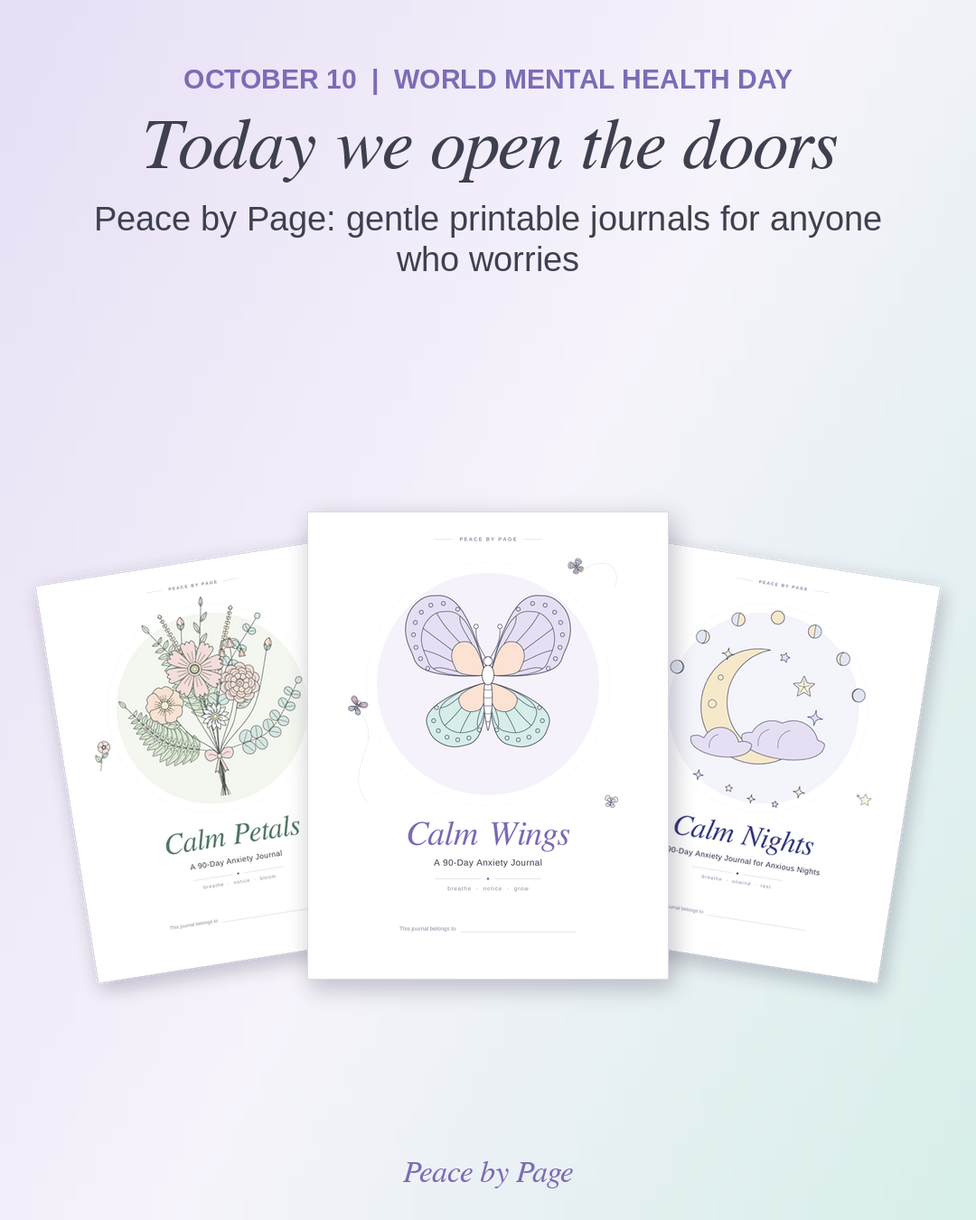
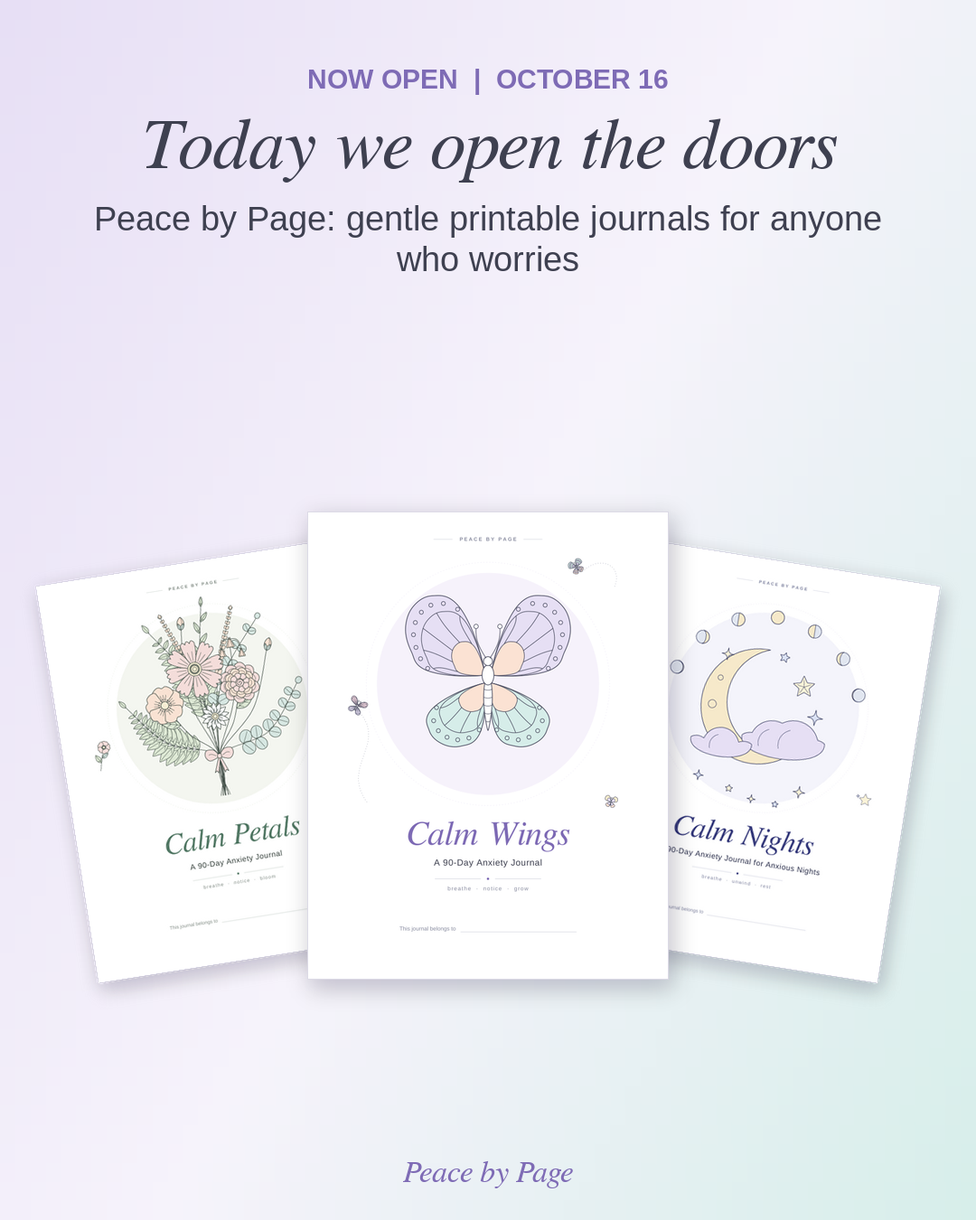
Peace by Page: launch moved to Fri 10/16, FB launch post + reels scheduled, Pinterest + IG/TikTok lists
Claude-Session: https://claude.ai/code/session_01TQWUAJSyeczoh1eaRjRwmB

Changed region(s): [[0.1833, 0.0311, 0.7944, 0.0933]]

diff --git a/ventures/calm-pages/launch/make_launch_content.py b/ventures/calm-pages/launch/make_launch_content.py
@@ -1,4 +1,4 @@
-"""Peace by Page launch content (10/10 launch, checklist rows 41, 44, 47).
+"""Peace by Page launch content (10/16 launch, checklist rows 41, 44, 47).
 
 Builds, into ../launch/content/:
   pins/<edition>-<n>-<kind>.png      15 Pinterest pins, 1000 x 1500 (5 per edition)
@@ -194,7 +194,7 @@ def carousel():
     W, H = 1080, 1350
     J = {k: PDF[k]["journal"] for k in PDF}
     # 1 cover
-    im, d, y = slide("wings", "October 10  |  World Mental Health Day", "Today we open the doors",
+    im, d, y = slide("wings", "Now open  |  October 16", "Today we open the doors",
                      "Peace by Page: gentle printable journals for anyone who worries")
     fan_covers(im, W / 2, (y + H - 90) / 2 + 40, 400)
     save(im, "carousel", "launch-1.png")

diff --git a/ventures/calm-pages/launch/launch-schedule.md b/ventures/calm-pages/launch/launch-schedule.md
@@ -1,0 +1,205 @@
+# Peace by Page: launch schedule (launch Fri 10/16)
+
+Set up 10/9 after Tim approved all launch content. Times are Eastern. No launch sale in anything scheduled (LAUNCH25 variants are in `launch-content.md` if Tim says yes by Tue 10/13).
+Launch date changed from Sat 10/10 (World Mental Health Day) to Fri 10/16, so the "World Mental Health Day" lines were dropped and carousel slide 1 now reads "Now open | October 16". Nothing else in the approved copy changed except "link in bio" becoming the product link on Facebook.
+
+## 1. Scheduled in Blotato (Peace by Page Facebook Page)
+
+| When (ET) | Post | Link in text | Blotato schedule id |
+|---|---|---|---|
+| Fri 10/16 8:30 AM | Launch post + 7-slide carousel | https://payhip.com/PeaceByPage | 5364160 |
+| Fri 10/16 4:45 PM | Reel V1, Calm Wings flip-through | https://payhip.com/b/ySCnJ | 5364170 |
+| Mon 10/19 6:30 PM | Reel V2, Calm Nights evening pages | https://payhip.com/b/NzAkL | 5364173 |
+| Wed 10/21 6:30 PM | Reel V3, Calm Petals coloring reveal | https://payhip.com/b/8QkY4 | 5364176 |
+| Fri 10/23 6:30 PM | Reel V4, three editions | https://payhip.com/PeaceByPage | 5364179 |
+| Mon 10/26 6:30 PM | Reel V5, free sampler | https://payhip.com/b/yrk3j | 5364182 |
+
+To change or cancel one: Blotato > Calendar, or ask Jarvis (blotato_update_schedule / blotato_delete_schedule with the id).
+
+## 2. Pinterest: NOT in Blotato (blocked), pin by hand or with Pinterest's own scheduler
+
+Blotato refused the Pinterest post on 10/9: "Your Pinterest still looks pretty new. You MUST warm it up for 2 weeks before connecting to 3rd party posting tools... Once you get 100+ views per month, then reconnect your Pinterest account with Blotato." So Pinterest goes by hand for now, which also counts as the warm-up.
+Easiest: on a computer, pinterest.com > Create > Create Pin > upload the image, paste title, description, alt text (under "More options"), link and board > "Publish at a later date" > pick the date. One sitting can queue several. Or post each day from the phone app.
+Image links below are public copies (tap to open, then save). Originals: `launch/content/pins/` and `launch/content/carousel/launch-1.png`.
+Board ids (for Blotato later): Anxiety Journal Prompts 1140184899352420443, Calming Coloring Pages 1140184899352420445, Gifts for Someone Who Worries 1140184899352420448, Self-Care Printables 1140184899352420446
+
+### Launch pin: Fri 10/16, 8:30 AM
+- **Image:** https://database.blotato.io/storage/v1/object/public/public_media/246c6cef-6cbe-4b5b-81a9-7bb84481df9c/b85ef37d-803c-4b7d-8f06-a50dc34949d3.png (carousel slide 1)
+- **Board:** Self-Care Printables
+- **Link:** https://payhip.com/PeaceByPage
+- **Title:** Printable Anxiety Journals from Peace by Page, Now Open
+- **Description:** Peace by Page is now open: gentle 90-day printable journals in three editions (butterflies, botanicals, moon and stars), five minutes a day, plus a free 7-day sampler. Supports, not replaces, professional care. US crisis line: call or text 988.
+- **Alt text:** Three printable journal covers from Peace by Page: Calm Petals, Calm Wings and Calm Nights
+
+### Daily pins, one a day around 7:45 PM (journal, bundle and sampler pins first)
+
+#### 1. Fri 10/16: W1 (wings-1-inside.png)
+- **Image:** https://database.blotato.io/storage/v1/object/public/public_media/246c6cef-6cbe-4b5b-81a9-7bb84481df9c/2d258982-4260-4354-824b-02a181b078a2.png
+- **Board:** Anxiety Journal Prompts
+- **Link:** https://payhip.com/b/ySCnJ
+- **Title:** Printable Anxiety Journal: a Peek Inside the 90-Day Calm Wings Journal
+- **Description:** A gentle 90-day printable journal with a soft butterfly theme. One daily page takes about five minutes: mood check, three good things, one worry and a more balanced thought, one small step. Includes an SOS toolkit (box breathing, grounding, worry tree) and coloring breaks. Instant download, US Letter and A4. Supports, not replaces, professional care. US crisis line: call or text 988.
+- **Alt text:** Three printable pages from the Calm Wings anxiety journal: a daily page, box breathing and a butterfly coloring page
+
+#### 2. Sat 10/17: N4 (nights-4-gift.png)
+- **Image:** https://database.blotato.io/storage/v1/object/public/public_media/246c6cef-6cbe-4b5b-81a9-7bb84481df9c/6b50298e-f27b-4ef6-9388-07aa135675fc.png
+- **Board:** Gifts for Someone Who Worries
+- **Link:** https://payhip.com/b/7ZIgE
+- **Title:** Bedtime Self-Care Gift: Calm Nights Printable Journal Bundle
+- **Description:** For the night owl who worries: the Calm Nights 90-day journal, 18 moon and stars coloring pages and a 12-month mood star tracker. Print, bind and wrap it with colored pencils, or send the file. Instant download, US Letter and A4. Supports, not replaces, professional care.
+- **Alt text:** Calm Nights journal, celestial coloring pack and mood star tracker printable bundle shown as a gift idea
+
+#### 3. Sun 10/18: P5 (petals-5-sampler.png)
+- **Image:** https://database.blotato.io/storage/v1/object/public/public_media/246c6cef-6cbe-4b5b-81a9-7bb84481df9c/43f366ac-3751-48e3-8381-41ff02ee1387.png
+- **Board:** Self-Care Printables
+- **Link:** https://payhip.com/b/yrk3j
+- **Title:** Try a Week of Guided Journaling Free: Printable 7-Day Sampler
+- **Description:** Not sure a journal is for you? Start with seven free daily pages, a pocket SOS card and a coloring page. About five minutes a day, undated, print at home. Free PDF in Letter and A4. Supports, not replaces, professional care. US crisis line: call or text 988.
+- **Alt text:** Free printable 7-day journal sampler shown next to the Calm Petals journal cover
+
+#### 4. Mon 10/19: N1 (nights-1-inside.png)
+- **Image:** https://database.blotato.io/storage/v1/object/public/public_media/246c6cef-6cbe-4b5b-81a9-7bb84481df9c/534495cf-0fa4-4d97-b716-1753d4dc2acb.png
+- **Board:** Anxiety Journal Prompts
+- **Link:** https://payhip.com/b/NzAkL
+- **Title:** Evening Anxiety Journal: Inside the 90-Day Calm Nights Printable
+- **Description:** For worries that get louder at night. The Calm Nights 90-day journal has moon and stars art, five-minute daily pages, an SOS toolkit with an extra page for nights when your mind won't switch off, and a bedtime wind-down list. Instant download, US Letter and A4. Supports, not replaces, professional care. US crisis line: call or text 988.
+- **Alt text:** Three printable pages from the Calm Nights anxiety journal: a daily page, box breathing and a moon coloring page
+
+#### 5. Tue 10/20: P4 (petals-4-gift.png)
+- **Image:** https://database.blotato.io/storage/v1/object/public/public_media/246c6cef-6cbe-4b5b-81a9-7bb84481df9c/e93e9b78-a550-4685-8829-8321ddc0a05e.png
+- **Board:** Gifts for Someone Who Worries
+- **Link:** https://payhip.com/b/8teNR
+- **Title:** Self-Care Gift for a Friend Who Worries: Calm Petals Printable Bundle
+- **Description:** The Calm Petals bundle: a 90-day journal, 18 botanical coloring pages and a 12-month mood flower tracker. A gentle gift you can print, bind and wrap, or send as a file. Instant download, US Letter and A4. Supports, not replaces, professional care.
+- **Alt text:** Calm Petals journal, botanical coloring pack and mood flower tracker printable bundle shown as a gift idea
+
+#### 6. Wed 10/21: W5 (wings-5-sampler.png)
+- **Image:** https://database.blotato.io/storage/v1/object/public/public_media/246c6cef-6cbe-4b5b-81a9-7bb84481df9c/fec977af-16b4-4673-a92b-f7de631107f4.png
+- **Board:** Self-Care Printables
+- **Link:** https://payhip.com/b/yrk3j
+- **Title:** Free Printable Anxiety Journal Sampler: 7 Days to Try
+- **Description:** Try a week of the Peace by Page journal free: 7 daily pages, a pocket SOS card to cut out and a page to color. About five minutes a day. Free PDF in US Letter and A4. Supports, not replaces, professional care. US crisis line: call or text 988.
+- **Alt text:** Free 7-day anxiety journal sampler printable with daily pages and a pocket SOS card
+
+#### 7. Thu 10/22: P1 (petals-1-inside.png)
+- **Image:** https://database.blotato.io/storage/v1/object/public/public_media/246c6cef-6cbe-4b5b-81a9-7bb84481df9c/6e1ae7ee-81f5-4b65-8052-7995918f6b83.png
+- **Board:** Anxiety Journal Prompts
+- **Link:** https://payhip.com/b/73fNd
+- **Title:** Printable Anxiety Journal with Botanical Art: Inside the 90-Day Calm Petals Journal
+- **Description:** A gentle 90-day printable journal with soft botanical art in sage and blush. Daily pages take about five minutes, with CBT-inspired prompts, an SOS toolkit and a flower coloring page at the end of each week. Instant download, US Letter and A4. Supports, not replaces, professional care. US crisis line: call or text 988.
+- **Alt text:** Three printable pages from the Calm Petals anxiety journal: a daily page, box breathing and a botanical coloring page
+
+#### 8. Fri 10/23: W4 (wings-4-gift.png)
+- **Image:** https://database.blotato.io/storage/v1/object/public/public_media/246c6cef-6cbe-4b5b-81a9-7bb84481df9c/cfc1b469-ff70-42f6-9d4e-076c410f3638.png
+- **Board:** Gifts for Someone Who Worries
+- **Link:** https://payhip.com/b/JFAK9
+- **Title:** A Gift for Someone Who Worries: Calm Wings Printable Journal Bundle
+- **Description:** A thoughtful gift for a friend who carries a lot: the Calm Wings 90-day journal, an 18-page butterfly coloring pack and a 12-month mood tracker. Print it and tuck it in a binder with colored pencils, or send the file. Instant download, Letter and A4. Supports, not replaces, professional care.
+- **Alt text:** Calm Wings journal, butterfly coloring pack and mood tracker printable bundle shown as a gift idea
+
+#### 9. Sat 10/24: N3 (nights-3-day1.png)
+- **Image:** https://database.blotato.io/storage/v1/object/public/public_media/246c6cef-6cbe-4b5b-81a9-7bb84481df9c/3bf94115-5754-4d28-921a-5835e68e3aae.png
+- **Board:** Self-Care Printables
+- **Link:** https://payhip.com/b/NzAkL
+- **Title:** Five Quiet Minutes Before Bed: Printable Evening Journal Page
+- **Description:** Day 1 of the Calm Nights 90-day journal. Rate your day, write three good things, set down one worry with a more balanced thought, and choose one small step for tomorrow. A calm way to close the day. Printable PDF in Letter and A4. Supports, not replaces, professional care. US crisis line: call or text 988.
+- **Alt text:** Printable Day 1 page from the Calm Nights evening anxiety journal with moon and star accents
+
+#### 10. Sun 10/25: P2 (petals-2-coloring.png)
+- **Image:** https://database.blotato.io/storage/v1/object/public/public_media/246c6cef-6cbe-4b5b-81a9-7bb84481df9c/ab95153c-1a75-4d5c-b0f8-65bb4adb9e65.png
+- **Board:** Calming Coloring Pages
+- **Link:** https://payhip.com/b/8QkY4
+- **Title:** 18 Botanical Coloring Pages for Adults: Printable Flower Coloring PDF
+- **Description:** Original flower and leaf coloring pages for a calm creative break: wreaths, bouquets and botanical mandalas in clean line art. No rules, nothing to finish. Print on cardstock for colored pencils. Instant download, US Letter and A4. From Peace by Page.
+- **Alt text:** Floral wreath coloring page for adults from the Calm Petals botanical coloring pack
+
+#### 11. Mon 10/26: W3 (wings-3-day1.png)
+- **Image:** https://database.blotato.io/storage/v1/object/public/public_media/246c6cef-6cbe-4b5b-81a9-7bb84481df9c/e17cdc17-da8a-4478-abe5-eab3babf03ee.png
+- **Board:** Anxiety Journal Prompts
+- **Link:** https://payhip.com/b/ySCnJ
+- **Title:** What Five Minutes a Day Looks Like: Anxiety Journal Daily Page
+- **Description:** Day 1 of the Calm Wings 90-day journal. Rate anxiety, mood and sleep, write three good things, name one worry and a more balanced thought, and pick one small step for tomorrow. Undated pages, so skipped days are fine. Printable PDF in Letter and A4. Supports, not replaces, professional care. US crisis line: call or text 988.
+- **Alt text:** Printable Day 1 page from the Calm Wings 90-day anxiety journal with mood ratings and journal prompts
+
+#### 12. Tue 10/27: N2 (nights-2-coloring.png)
+- **Image:** https://database.blotato.io/storage/v1/object/public/public_media/246c6cef-6cbe-4b5b-81a9-7bb84481df9c/38a466d9-8c3a-4199-82eb-3d0680426e00.png
+- **Board:** Calming Coloring Pages
+- **Link:** https://payhip.com/b/TlxrB
+- **Title:** 18 Moon and Stars Coloring Pages for Adults: Printable Celestial PDF
+- **Description:** Celestial coloring pages for quiet evenings: moon phases, constellations, a night lake and starry mandalas in clean line art. Pick a few colors and stop whenever you like. Instant download, US Letter and A4. From Peace by Page.
+- **Alt text:** Night lake coloring page with moon, clouds and pine trees from the Calm Nights celestial coloring pack
+
+#### 13. Wed 10/28: P3 (petals-3-day1.png)
+- **Image:** https://database.blotato.io/storage/v1/object/public/public_media/246c6cef-6cbe-4b5b-81a9-7bb84481df9c/ccb4b429-cfa5-4960-9a9d-207025c0c304.png
+- **Board:** Self-Care Printables
+- **Link:** https://payhip.com/b/73fNd
+- **Title:** Daily Anxiety Journal Prompts: a Printable Five-Minute Page
+- **Description:** One page a day from the Calm Petals 90-day journal: mood ratings, three good things, one worry and a more balanced thought, and one small step. Undated, so you can start any day. Printable PDF in Letter and A4. Supports, not replaces, professional care. US crisis line: call or text 988.
+- **Alt text:** Printable Day 1 page from the Calm Petals anxiety journal with botanical accents
+
+#### 14. Thu 10/29: W2 (wings-2-coloring.png)
+- **Image:** https://database.blotato.io/storage/v1/object/public/public_media/246c6cef-6cbe-4b5b-81a9-7bb84481df9c/7d303899-57c5-4929-98fe-c2d9935ef85c.png
+- **Board:** Calming Coloring Pages
+- **Link:** https://payhip.com/b/fGDhE
+- **Title:** 18 Butterfly Coloring Pages for Adults: Printable PDF
+- **Description:** Original butterfly coloring pages for a quiet break: mandalas, garden scenes, wreaths and geometric wings in clean line art. Pick three colors and start with one wing. Print your favorites as often as you like. Instant download, US Letter and A4. From Peace by Page.
+- **Alt text:** Butterfly and flower coloring page for adults from the Calm Wings coloring pack
+
+#### 15. Fri 10/30: N5 (nights-5-sampler.png)
+- **Image:** https://database.blotato.io/storage/v1/object/public/public_media/246c6cef-6cbe-4b5b-81a9-7bb84481df9c/568f9c97-69a0-4db9-bc92-5baa3ab01054.png
+- **Board:** Self-Care Printables
+- **Link:** https://payhip.com/b/yrk3j
+- **Title:** Free Printable Journal Pages: a 7-Day Calm Sampler
+- **Description:** Seven free daily journal pages, a pocket SOS card and a page to color, from Peace by Page. Try it for a week and see if it fits your evenings. Free PDF in US Letter and A4. Supports, not replaces, professional care. US crisis line: call or text 988.
+- **Alt text:** Free printable 7-day journal sampler shown next to the Calm Nights journal cover
+
+## 3. Instagram + TikTok ready list (@peacebypage)
+
+Not connected to Blotato until about 10/18 (warm-up). Until then Tim posts by hand. Once Tim connects them, Jarvis schedules everything below dated 10/19 or later with these exact files and captions (IG: mediaType reel, share to feed; TikTok: PUBLIC_TO_EVERYONE, comments on, isAiGenerated false, isYourBrand true).
+Add a soft, quiet track from the app's music library when posting by hand (the videos have no audio). Covers: `launch/content/videos/<n>-...-cover.png`.
+
+### Launch day, Fri 10/16 morning (Tim, by hand)
+**Instagram carousel** (7 slides: `launch/content/carousel/launch-1.png` to `launch-7.png`):
+
+Peace by Page is open.
+
+Gentle printable journals for anyone who worries. One page a day. About five minutes. An SOS toolkit for the hard moments, and a page to color when you finish a week.
+
+Three editions, same pages inside: Calm Wings, Calm Petals and Calm Nights. Swipe to see them.
+
+Try a week free with the 7-day sampler. Link in bio.
+
+Supports, not replaces, professional care. In crisis in the US, call or text 988. Outside the US: findahelpline.com.
+
+#mentalhealthawareness #anxietyjournal #printablejournal #guidedjournal #selfcare #journaling
+
+**TikTok** (photo mode with the 7 slides, or video V1):
+
+Peace by Page is open today. We make printable journals for anyone who worries: one page a day, about five minutes. Free 7-day sampler, link in bio. Supports, not replaces, professional care. In crisis in the US, call or text 988.
+
+#anxietyjournal #journaling #printables #selfcare #mentalhealthawareness
+
+### V1. Fri 10/16, afternoon (Tim posts by hand: launch reel)
+- **Video:** `launch/content/videos/1-wings-flip-through.mp4` (public copy: https://database.blotato.io/storage/v1/object/public/public_media/246c6cef-6cbe-4b5b-81a9-7bb84481df9c/28669cf2-9803-4094-bbb8-1d5b2211d6f1.mp4)
+- **Caption (IG and TikTok):** A flip through Calm Wings, our 90-day printable journal. One page a day, an SOS toolkit for hard moments, and a coloring page when you finish a week. Letter and A4, instant download. Link in bio. Supports, not replaces, professional care. In crisis in the US, call or text 988.
+- **Hashtags:** #anxietyjournal #guidedjournal #printablejournal #selfcareideas #journalingprompts #mentalhealthawareness
+
+### V2. Mon 10/19, 6:30 PM
+- **Video:** `launch/content/videos/2-nights-evening-pages.mp4` (public copy: https://database.blotato.io/storage/v1/object/public/public_media/246c6cef-6cbe-4b5b-81a9-7bb84481df9c/3d38c77d-6e59-415c-943c-7242c4ddbd21.mp4)
+- **Caption (IG and TikTok):** If your mind gets busy at bedtime, Calm Nights was made with you in mind: a 90-day printable journal with an extra page for nights when your mind won't switch off, a wind-down list and moon and stars to color. Link in bio. Supports, not replaces, professional care. In crisis in the US, call or text 988.
+- **Hashtags:** #eveningroutine #anxietyjournal #bedtimeroutine #printablejournal #journaling #moonandstars
+
+### V3. Wed 10/21, 6:30 PM
+- **Video:** `launch/content/videos/3-petals-coloring-reveal.mp4` (public copy: https://database.blotato.io/storage/v1/object/public/public_media/246c6cef-6cbe-4b5b-81a9-7bb84481df9c/94be3dfe-b06c-4095-a0bf-5040cd6a7206.mp4)
+- **Caption (IG and TikTok):** 18 botanical coloring pages for a quiet break. No rules and nothing to finish. Print your favorites as often as you like. Calm Petals coloring pack, $4.99, link in bio. Supports, not replaces, professional care. In crisis in the US, call or text 988.
+- **Hashtags:** #adultcoloring #coloringpages #botanicalart #mindfulcoloring #printables #selfcare
+
+### V4. Fri 10/23, 6:30 PM
+- **Video:** `launch/content/videos/4-three-editions.mp4` (public copy: https://database.blotato.io/storage/v1/object/public/public_media/246c6cef-6cbe-4b5b-81a9-7bb84481df9c/143451d9-b324-4b91-b1d5-517235a65ac6.mp4)
+- **Caption (IG and TikTok):** Three editions, same gentle pages inside. Which one feels like you: Wings, Petals or Nights? Tell us in the comments. Link in bio, plus a free 7-day sampler. Supports, not replaces, professional care. In crisis in the US, call or text 988.
+- **Hashtags:** #anxietyjournal #printablejournal #guidedjournal #journalideas #selfcare #peacebypage
+
+### V5. Mon 10/26, 6:30 PM
+- **Video:** `launch/content/videos/5-free-sampler.mp4` (public copy: https://database.blotato.io/storage/v1/object/public/public_media/246c6cef-6cbe-4b5b-81a9-7bb84481df9c/5609d12c-f6a9-49e5-9314-b4c48f729412.mp4)
+- **Caption (IG and TikTok):** Try a week before you buy: the free Peace by Page sampler has 7 daily pages, a pocket SOS card and a coloring page. Free PDF, link in bio. Supports, not replaces, professional care. In crisis in the US, call or text 988.
+- **Hashtags:** #freeprintable #journalingprompts #anxietyjournal #selfcaretips #printables #journaling

diff --git a/ventures/calm-pages/launch/launch-content.md b/ventures/calm-pages/launch/launch-content.md
@@ -1,9 +1,9 @@
-# Peace by Page: launch content drafts (10/10)
+# Peace by Page: launch content (launch Fri 10/16)
 
-Drafts for Tim's approval. Nothing here is posted, scheduled or sent. Checklist rows 35 (welcome emails), 41 (pins), 44 (videos), 47 (launch post).
+Approved by Tim 10/9. Launch moved from Sat 10/10 to Fri 10/16; what is scheduled where: `launch-schedule.md`. No launch sale for now: scheduled posts carry no code. The LAUNCH25 variants below stay here in case Tim says yes by Tue 10/13. Checklist rows 35 (welcome emails), 41 (pins), 44 (videos), 47 (launch post).
 Images and videos: `ventures/calm-pages/launch/content/` (rebuild: `python3 launch/make_launch_content.py`).
 Rules kept: no medical claims, "supports, not replaces, professional care" and 988 on every email, the launch post, the carousel and each video's end card. No mention of the gift origin story (row 50 is still open).
-Placeholders to fill: [LAUNCH CODE] and [END DATE] (row 48 decides the sale), [FIRST NAME] if the email tool supports it.
+Placeholders: [FIRST NAME] if the email tool supports it.
 
 ---
 
@@ -85,7 +85,7 @@ It comes in three editions. The pages inside are the same; only the art changes.
 
 Each journal is $11.99. The bundle for each edition ($16.99) adds an 18-page coloring pack and a 12-month mood tracker.
 
-**Launch offer:** use code **[LAUNCH CODE]** at checkout for [25%] off everything until [END DATE].
+**Launch offer (LAUNCH25 only):** use code **LAUNCH25** at checkout for 25% off everything until Fri 10/30.
 
 Every file is an instant download in US Letter and A4. Print at home, a page at a time or all at once.
 
@@ -107,7 +107,7 @@ Peace by Page
 
 ## 2. Pinterest pins (row 41)
 
-15 pins, 1000 x 1500, in `launch/content/pins/`. Plan: 1 pin a day from 10/10 (row 43). Each pin links to its product page.
+15 pins, 1000 x 1500, in `launch/content/pins/`. Plan: 1 pin a day from 10/16 for 15 days (row 43). Blotato blocked Pinterest on 10/9 (account needs warm-up), so pins go by hand or via Pinterest's own scheduler; order and copy in `launch-schedule.md`. Each pin links to its product page.
 
 | # | File | Board | Link |
 |---|---|---|---|
@@ -210,7 +210,7 @@ Suggested order (alternates editions and angles): W1, P2, N3, W5, P4, N1, W2, P3
 
 5 vertical videos, 1080 x 1920, 13 to 17 seconds, no voice, captions on screen. Each ends on a card with "Supports, not replaces, professional care. In crisis in the US? Call or text 988." Add a soft, quiet track from the app's music library when posting (IG/TikTok trending audio is fine; keep it calm). Files in `launch/content/videos/` with a `-cover.png` for each.
 
-Plan: video 1 on 10/10, then 3 a week (row 46). IG and TikTok are posted by Tim by hand until ~10/18.
+Plan: video 1 on 10/16, then 3 a week (row 46). Facebook Reels scheduled in Blotato. IG and TikTok are posted by Tim by hand until ~10/18.
 
 ### V1. 1-wings-flip-through.mp4 (launch day)
 On screen: "A 90-day anxiety journal you print at home" > "Hard moment? Start with the SOS pages" > "Trace the square. Breathe in for four." > "One page a day. About five minutes." > "Finish a week, color a page" > end card.
@@ -239,10 +239,12 @@ On screen: "Not sure yet? Try a week free" > "7 daily pages, about five minutes 
 
 ---
 
-## 4. Launch post, Sat 10/10, World Mental Health Day (row 47)
+## 4. Launch post, Fri 10/16 (row 47)
+
+World Mental Health Day lines removed after the move to 10/16. Lines marked LAUNCH25 go in only if Tim picks the sale (code LAUNCH25, 25% off everything for 2 weeks).
 
 Carousel: 7 slides, 1080 x 1350, `launch/content/carousel/launch-1.png` to `launch-7.png`.
-1. Today we open the doors (three covers)
+1. Now open | October 16: Today we open the doors (three covers)
 2. A 90-day journal you print at home
 3. Notice. Write. Take one small step. (daily page + thought record)
 4. An SOS toolkit in every journal
@@ -251,7 +253,7 @@ Carousel: 7 slides, 1080 x 1350, `launch/content/carousel/launch-1.png` to `laun
 7. A note of care: supports, not replaces, professional care; call or text 988; findahelpline.com
 
 ### Facebook (Blotato, with the 7 slides)
-Today is World Mental Health Day, and today Peace by Page opens.
+Today Peace by Page opens.
 
 We make gentle printable journals for anyone who worries. One page a day, about five minutes: check in with your mood, write three good things, name one worry and a more balanced thought, and pick one small step for tomorrow.
 
@@ -264,31 +266,31 @@ Calm Nights: moon and stars, with extra pages for evenings
 
 Not sure yet? The 7-day sampler is free.
 Shop: https://payhip.com/PeaceByPage
-[Launch offer: code [LAUNCH CODE] for [25%] off everything through [END DATE].]
+(LAUNCH25 only: Launch offer: code LAUNCH25 for 25% off everything through Fri 10/30.)
 
 A note of care: our journals are for self-reflection and general wellbeing. They support, not replace, care from a licensed professional. If you are in crisis in the US, call or text 988. Outside the US, find a helpline at findahelpline.com.
 
 ### Instagram (Tim posts by hand, carousel)
-Today is World Mental Health Day, and Peace by Page is open.
+Peace by Page is open.
 
 Gentle printable journals for anyone who worries. One page a day. About five minutes. An SOS toolkit for the hard moments, and a page to color when you finish a week.
 
 Three editions, same pages inside: Calm Wings, Calm Petals and Calm Nights. Swipe to see them.
 
 Try a week free with the 7-day sampler. Link in bio.
-[Launch code [LAUNCH CODE]: [25%] off through [END DATE].]
+(LAUNCH25 only: Launch code LAUNCH25: 25% off through Fri 10/30.)
 
 Supports, not replaces, professional care. In crisis in the US, call or text 988. Outside the US: findahelpline.com.
 
-**Hashtags:** #worldmentalhealthday #mentalhealthawareness #anxietyjournal #printablejournal #guidedjournal #selfcare #journaling
+**Hashtags:** #mentalhealthawareness #anxietyjournal #printablejournal #guidedjournal #selfcare #journaling
 
 ### TikTok (Tim posts by hand, photo mode with the 7 slides, or video V1)
-World Mental Health Day felt like the right day to open. Peace by Page makes printable journals for anyone who worries: one page a day, about five minutes. Free 7-day sampler, link in bio. Supports, not replaces, professional care. In crisis in the US, call or text 988.
-**Hashtags:** #worldmentalhealthday #anxietyjournal #journaling #printables #selfcare
+Peace by Page is open today. We make printable journals for anyone who worries: one page a day, about five minutes. Free 7-day sampler, link in bio. Supports, not replaces, professional care. In crisis in the US, call or text 988.
+**Hashtags:** #anxietyjournal #journaling #printables #selfcare #mentalhealthawareness
 
 ### Pinterest (Blotato, slide 1 as a pin to Self-Care Printables)
-**Title:** Printable Anxiety Journals for World Mental Health Day
-**Description:** Peace by Page opens on World Mental Health Day: gentle 90-day printable journals in three editions (butterflies, botanicals, moon and stars), five minutes a day, plus a free 7-day sampler. Supports, not replaces, professional care. US crisis line: call or text 988.
+**Title:** Printable Anxiety Journals from Peace by Page, Now Open
+**Description:** Peace by Page is now open: gentle 90-day printable journals in three editions (butterflies, botanicals, moon and stars), five minutes a day, plus a free 7-day sampler. Supports, not replaces, professional care. US crisis line: call or text 988.
 **Link:** https://payhip.com/PeaceByPage
 
 ### Share text for friends and family (row 54, optional)

diff --git a/TODO.md b/TODO.md
@@ -38,10 +38,11 @@ Newest decisions win; move finished items to Done with the date.
 - [ ] Update the SOP quote prices and the business plan (old tier names, weekday 8-5 hours) to match the new menu.
 
 ### Peace by Page (Ventures)
-- [ ] Work through the launch build-out sheet, step by step (domain to first sales, 67 steps, launch PUSHED (10/9): new date TBD, Tim needs a couple of days): [Peace by Page: Launch Build-Out](https://docs.google.com/spreadsheets/d/1TLL394lyp_JITaeTmSNjxmjrJ_4T-Ie6UZMhja7xzOk/edit)
+- [ ] Work through the launch build-out sheet, step by step (domain to first sales, 67 steps, launch FRI 10/16; dates in the sheet updated 10/9): [Peace by Page: Launch Build-Out](https://docs.google.com/spreadsheets/d/1TLL394lyp_JITaeTmSNjxmjrJ_4T-Ie6UZMhja7xzOk/edit)
 - [ ] Buy peacebypage.com (~$11).
-- [ ] Store fixes before launch: About text, disclaimer + 988 in footer, store name "Peace by Page", turn off "On Sale", reorder products, check photos. Then the test purchase (100% off coupon). OK the pins, videos and launch post (Doc "Peace by Page: Launch Content Drafts").
-- [ ] Decide: launch sale (LAUNCH25 or none), email sign-off (Tim or The Peace by Page team), counselor/group license (later).
+- [ ] Store fixes before launch: About text, disclaimer + 988 in footer, store name "Peace by Page", turn off "On Sale", reorder products, check photos. Then the test purchase (100% off coupon). All by Wed 10/14. (Pins, videos and launch post approved 10/9; FB scheduled.)
+- [ ] Pinterest by hand (Blotato blocks it until warmed up): queue the launch pin + 15 daily pins 10/16-10/30 with Pinterest's "Publish at a later date". List: ventures/calm-pages/launch/launch-schedule.md
+- [ ] Decide by Tue 10/13: launch sale (LAUNCH25 or none; default none), email sign-off (Tim or The Peace by Page team), counselor/group license (later).
 
 ### Defined Risk Trading
 - [x] Renew TradingView Essentials: renewed 10/8 at $18.99/mo, alerts back on.

diff --git a/.claude/agents/ventures.md b/.claude/agents/ventures.md
@@ -46,4 +46,4 @@ Background: Tim's profile doc (Google Doc `1nqEGp36FxnB5UZr9-2hE14y12sTmvIDjSZnn
 - Blotato Facebook: account 50185, Peace by Page pageId 1255582607649321 (connected).
 - Blotato Pinterest: account 9654, username Peacebypage (the old NestedLumen account, renamed; has history). Needs boardId per post; boards planned: Anxiety Journal Prompts, Calming Coloring Pages, Self-Care Printables, Gifts for Someone Who Worries.
 - Instagram and TikTok @peacebypage: brand new, WARMING UP. Do not connect to Blotato before ~10/18. Until then Tim posts by hand from his phone (3-4x/week); Jarvis prepares the video + caption and sends it to him.
-- Launch 10/10: Facebook + Pinterest via Blotato; IG + TikTok launch reel posted by Tim manually.
+- Launch moved to FRI 10/16 (Tim approved all content 10/9; no launch sale unless he says LAUNCH25). Schedule and copy: `launch/launch-schedule.md`. Facebook launch post + 5 Reels scheduled in Blotato 10/9. Blotato REFUSES Pinterest until the account is warmed up (100+ monthly views): pins go by hand / Pinterest's own scheduler for now. IG + TikTok: Tim posts launch day by hand; schedule V2-V5 once connected ~10/18.

diff --git a/ventures/calm-pages/launch/README.md b/ventures/calm-pages/launch/README.md
@@ -1,4 +1,4 @@
-# Peace by Page: Payhip launch (Sat 10/10)
+# Peace by Page: Payhip launch (Fri 10/16; moved from Sat 10/10)
 
 | Step | What | File |
 |---|---|---|
